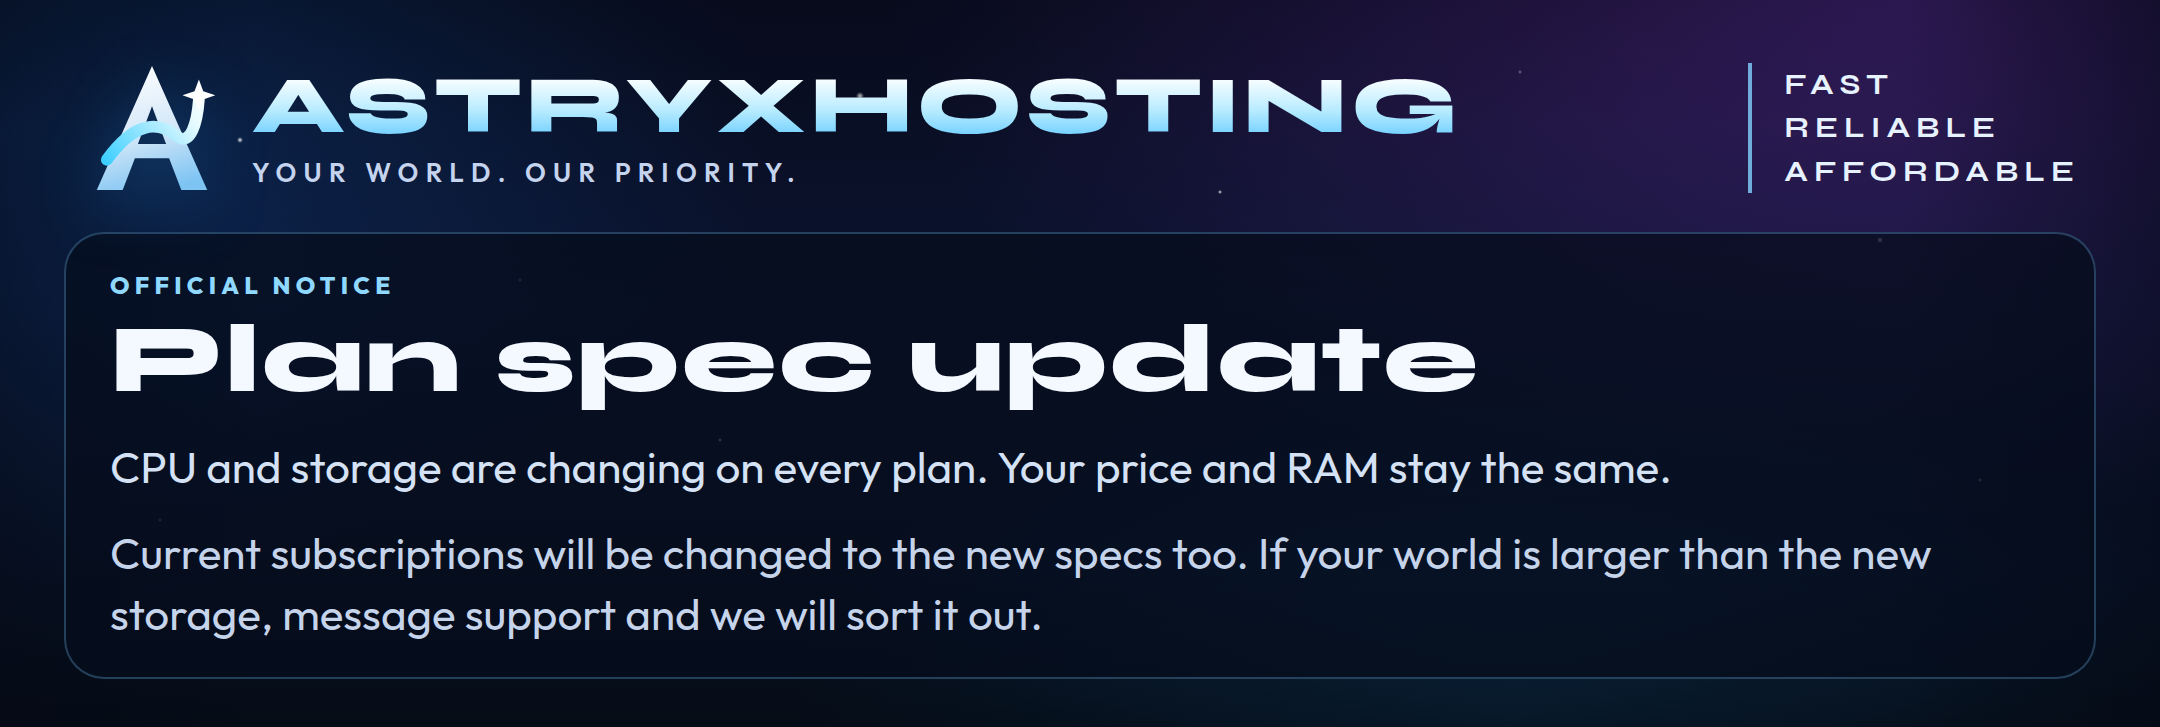
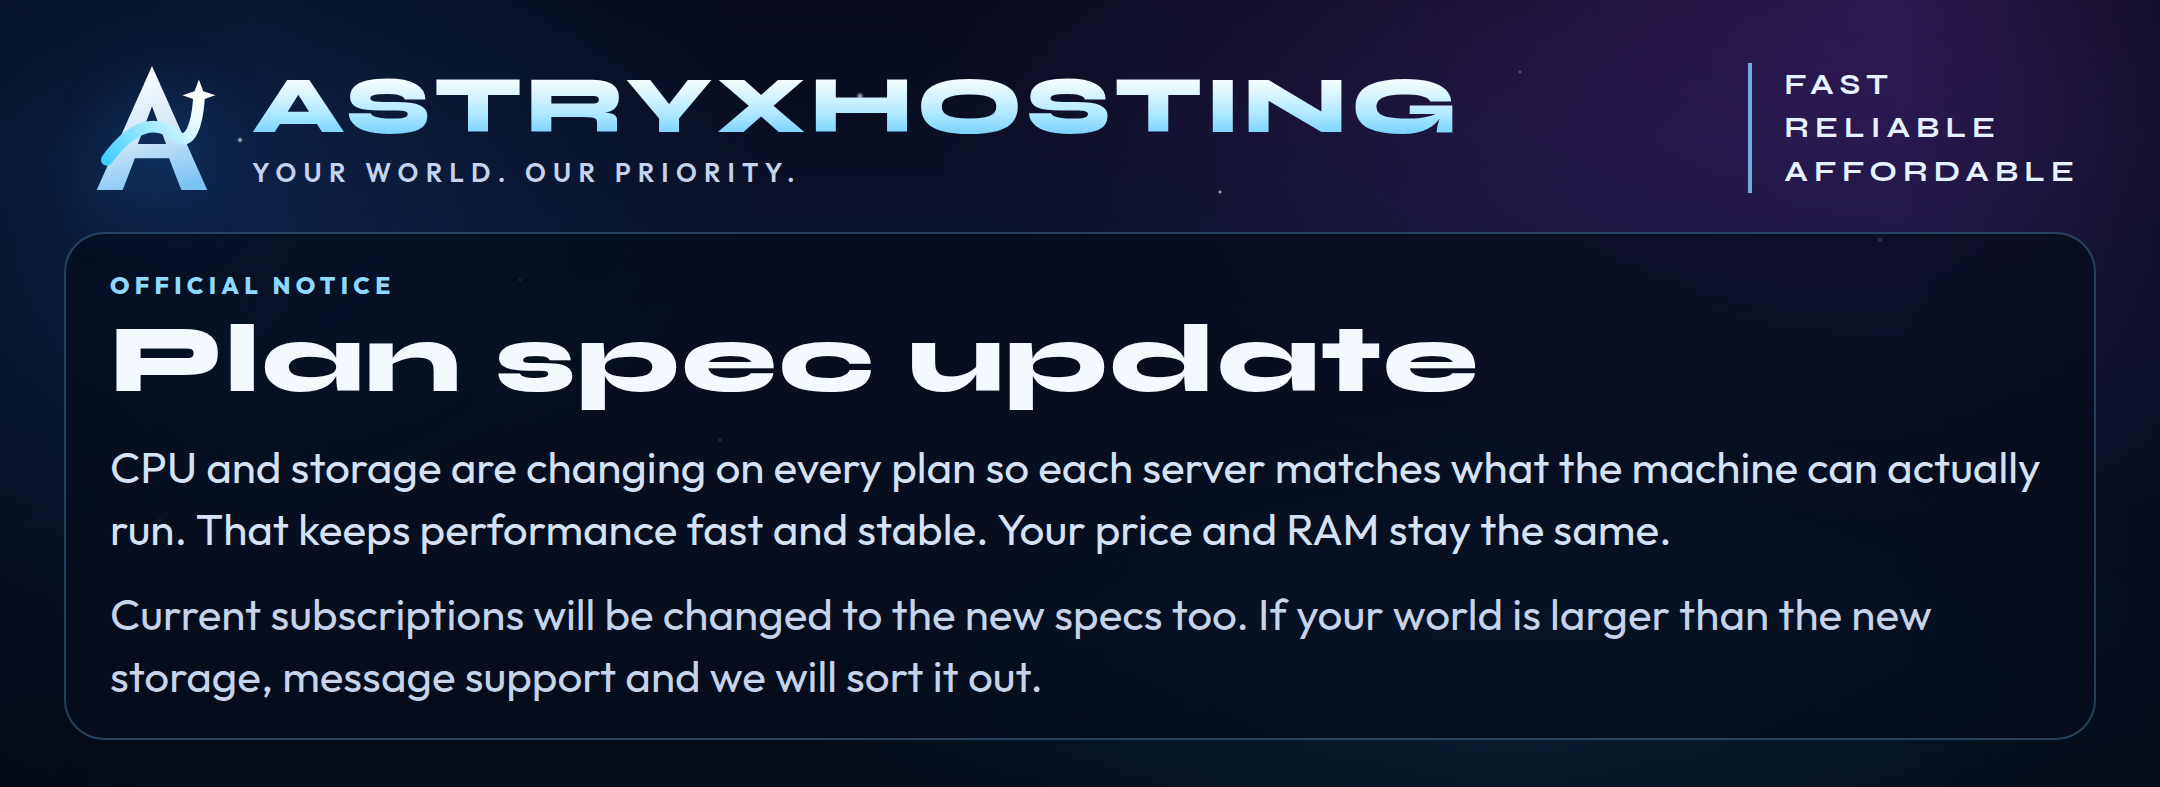
Explain why plan specs are changing.
The notice now says specs are being matched to what each machine can run so performance stays fast and stable.

diff --git a/posters/announcement.html b/posters/announcement.html
@@ -41,7 +41,7 @@
       <section class="notice">
         <p class="eyebrow">Official notice</p>
         <h1>Plan spec update</h1>
-        <p class="lead">CPU and storage are changing on every plan. Your price and RAM stay the same.</p>
+        <p class="lead">CPU and storage are changing on every plan so each server matches what the machine can actually run. That keeps performance fast and stable. Your price and RAM stay the same.</p>
         <p class="lead second">Current subscriptions will be changed to the new specs too. If your world is larger than the new storage, message support and we will sort it out.</p>
       </section>
     </div>
